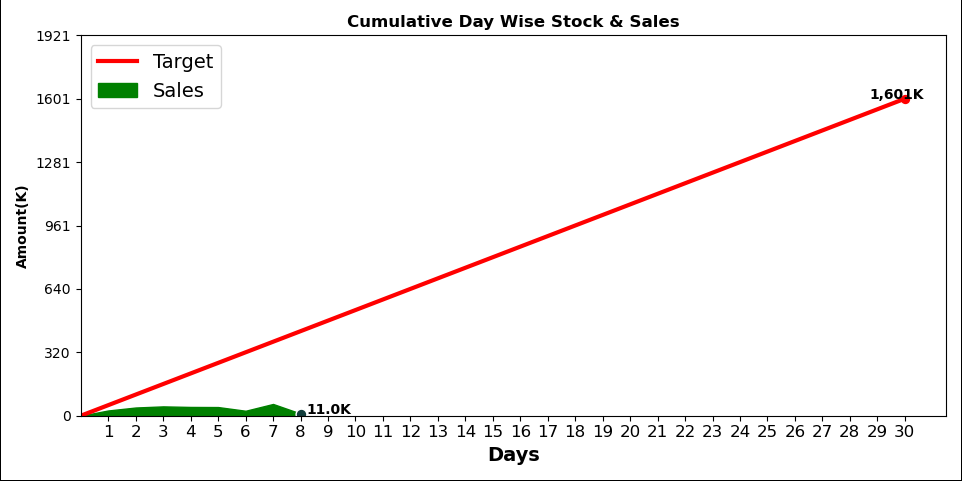
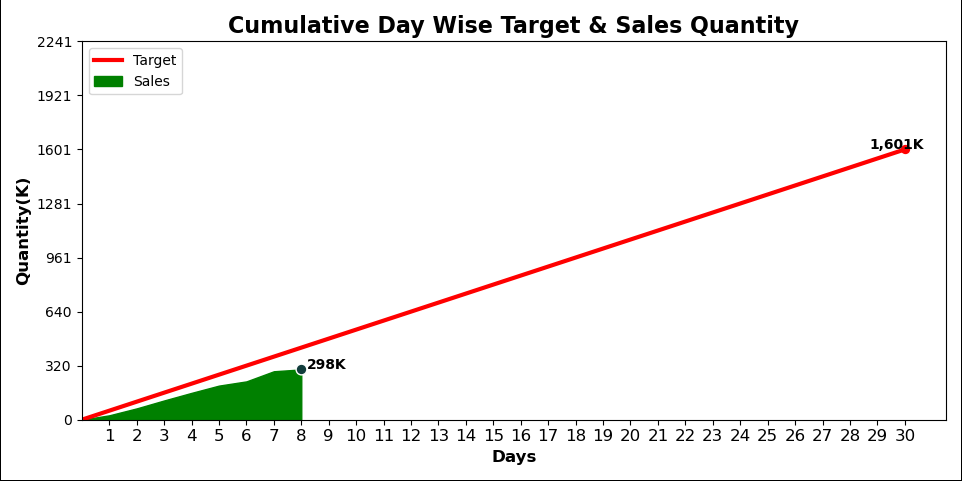
update all design

diff --git a/Functions/executive_wise_sales_target.py b/Functions/executive_wise_sales_target.py
@@ -13,20 +13,21 @@ connection = db.connect('DRIVER={SQL Server};'
 def executive_sales_target(name):
     try:
         executive_target_df = pd.read_sql_query("""
-                                            Declare @CurrentMonth NVARCHAR(MAX);
-                                            Declare @DaysInMonth NVARCHAR(MAX);
-                                            Declare @DaysInMonthtilltoday NVARCHAR(MAX);
-                                            SET @CurrentMonth = convert(varchar(6), GETDATE(),112)
-                                            SET @DaysInMonth = DAY(EOMONTH(GETDATE()))
-                                            SET @DaysInMonthtilltoday = right(convert(varchar(8), GETDATE(),112),2)
-                                            select CP01 as ExecutiveName, isnull((sum(QTY)/@DaysInMonth)*@DaysInMonthtilltoday,0) as MTDTargetQty
-                                            from PRINFOSKF 
-                                            left join ARCSECONDARY.dbo.RfieldForceProductTRG
-                                            on RfieldForceProductTRG.ITEMNO = PRINFOSKF.ITEMNO
-                                            where YEARMONTH = CONVERT(varchar(6), dateAdd(month,0,getdate()), 
-                                            112) and GPMNAME like ?
-                                            group by CP01
-                                            order by CP01 asc """, connection,params={name})
+                            Declare @CurrentMonth NVARCHAR(MAX);
+                            Declare @DaysInMonth NVARCHAR(MAX);
+                            Declare @DaysInMonthtilltoday NVARCHAR(MAX);
+                            SET @CurrentMonth = convert(varchar(6), GETDATE(),112)
+                            SET @DaysInMonth = DAY(EOMONTH(GETDATE()))
+                            SET @DaysInMonthtilltoday = right(convert(varchar(8), GETDATE(),112),2)
+                            select CP01 as ExecutiveName, cast(isnull((sum(QTY)/@DaysInMonth)*@DaysInMonthtilltoday,
+                            0)/1000 as int) as MTDTargetQty
+                            from PRINFOSKF 
+                            left join ARCSECONDARY.dbo.RfieldForceProductTRG
+                            on RfieldForceProductTRG.ITEMNO = PRINFOSKF.ITEMNO
+                            where YEARMONTH = CONVERT(varchar(6), dateAdd(month,0,getdate()), 
+                            112) and GPMNAME like ?
+                            group by CP01
+                            order by CP01 asc """, connection,params={name})
 
         Executive_name = executive_target_df['ExecutiveName'].tolist()
         Executive_target = executive_target_df['MTDTargetQty'].tolist()
@@ -50,14 +51,14 @@ def executive_sales_target(name):
         new_name3 = MS_Replace(new_name2)
         # print(new_name3)
 
-        executive_sales_df = pd.read_sql_query("""select CP01 as ExecutiveName, isnull(sum(QTYSHIPPED),0) as ItemSales from OESalesDetails
+        executive_sales_df = pd.read_sql_query("""select CP01 as ExecutiveName, cast(isnull(sum(QTYSHIPPED),0)/1000 as int) as ItemSales from OESalesDetails
                                 left join PRINFOSKF
                                 on OESalesDetails.ITEM = PRINFOSKF.ITEMNO
                                 where left(TRANSDATE,10) between convert(varchar(10),DATEADD(mm, DATEDIFF(mm, 0, GETDATE()-1), 0),112)
                                                 and convert(varchar(10),getdate(), 112)
                                 and PRINFOSKF.GPMNAME like ?
                                 group by CP01
-                                order by CP01 asc""", connection,params={name})
+                                order by CP01 asc """, connection,params={name})
 
         Executive_sale = executive_sales_df['ItemSales'].tolist()
         # print(Executive_sale)
@@ -67,23 +68,23 @@ def executive_sales_target(name):
         colors = ['#3F93D0']
         bars = plt.bar(new_name3, Executive_sale, color=colors, width=.4)
 
-        plt.title("Executive Wise MTD Target & Sales", fontsize=12, color='black', fontweight='bold')
-        plt.xlabel('Executive', fontsize=10, color='black', fontweight='bold')
+        plt.title("Executive Wise MTD Target & Sales Quantity", fontsize=16, color='black', fontweight='bold')
+        plt.xlabel('Executive', fontsize=12, color='black', fontweight='bold')
         plt.xticks(new_name3, rotation=90)
-        plt.ylabel('Sales', fontsize=10, color='black', fontweight='bold')
+        plt.ylabel('Quantity(K)', fontsize=12, color='black', fontweight='bold')
 
         plt.rcParams['text.color'] = 'black'
 
         for bar, achv in zip(bars, Executive_sale):
             yval = bar.get_height()
             wval = bar.get_width()
-            data = format(int(yval), ',') #+ '\n' + str(achv) + '%'
-            plt.text(bar.get_x(), yval, data)
+            data = format(int(yval), ',') + 'K' #+ '\n' + str(achv) + '%'
+            plt.text(bar.get_x() + wval/3, yval, data)
 
         lines = plt.plot(new_name3, Executive_target, 'o-', color='Red')
         plt.yticks(np.arange(0, max(Executive_target) + 0.9 * max(Executive_target), max(Executive_target) / 5))
         for i, j in zip(new_name3, Executive_target):
-            label = format(int(j), ',')
+            label = format(int(j), ',') + 'K'
             plt.annotate(label, (i, j), textcoords="offset points", xytext=(0, 4), ha='center', rotation=45)
 
         # print(mtd_achivemet)

diff --git a/send_mail.py b/send_mail.py
@@ -14,8 +14,8 @@ import numpy as np
 import path as d
 import xlsxwriter
 
-def send_mail(gpm_name):
 
+def send_mail(gpm_name):
     import Functions.banner_code as ban
     import Functions.generate_data as gdata
     import Functions.dashboard as dash
@@ -23,36 +23,34 @@ def send_mail(gpm_name):
     import Functions.executive_wise_sales_target as ex
     import Functions.brand_wise_target_sales as b
 
-    # ban.banner()
-    # gdata.GenerateReport(gpm_name)
-    # dash.dash_kpi_generator(gpm_name)
-    # cm.cumulative_target_sales(gpm_name)
-    # ex.executive_sales_target(gpm_name)
-    # b.brand_wise_target_sales()
+    ban.banner()
+    gdata.GenerateReport(gpm_name)
+    dash.dash_kpi_generator(gpm_name)
+    cm.cumulative_target_sales(gpm_name)
+    ex.executive_sales_target(gpm_name)
+    b.brand_wise_target_sales()
 
     # # # --------- Add Image Border ---------------------------------------
     from PIL import Image
-    # da = Image.open("./Images/dashboard.png")
-    # imageSize = Image.new('RGB', (962, 297))
-    # imageSize.paste(da, (1, 0))
-    # imageSize.save("./Images/dashboard.png")
-    #
-    # kpi1 = Image.open("./Images/Cumulative_Day_Wise_Target_vs_Sales.png")
-    # imageSize = Image.new('RGB', (962, 481))
-    # imageSize.paste(kpi1, (1, 0))
-    # imageSize.save("./Images/Cumulative_Day_Wise_Target_vs_Sales.png")
-    #
-    # kpi2 = Image.open("./Images/executive_wise_target_vs_sold_quantity.png")
-    # imageSize = Image.new('RGB', (962, 481))
-    # imageSize.paste(kpi2, (1, 0))
-    # imageSize.save("./Images/executive_wise_target_vs_sold_quantity.png")
-    # #
-    # kpi3 = Image.open("./Images/brand_wise_target_vs_sold_quantity.png")
-    # imageSize = Image.new('RGB', (962, 481))
-    # imageSize.paste(kpi3, (1, 0))
-    # imageSize.save("./Images/brand_wise_target_vs_sold_quantity.png")
+    da = Image.open("./Images/dashboard.png")
+    imageSize = Image.new('RGB', (962, 297))
+    imageSize.paste(da, (1, 0))
+    imageSize.save("./Images/dashboard.png")
 
+    kpi1 = Image.open("./Images/Cumulative_Day_Wise_Target_vs_Sales.png")
+    imageSize = Image.new('RGB', (962, 481))
+    imageSize.paste(kpi1, (1, 0))
+    imageSize.save("./Images/Cumulative_Day_Wise_Target_vs_Sales.png")
 
+    kpi2 = Image.open("./Images/executive_wise_target_vs_sold_quantity.png")
+    imageSize = Image.new('RGB', (962, 481))
+    imageSize.paste(kpi2, (1, 0))
+    imageSize.save("./Images/executive_wise_target_vs_sold_quantity.png")
+    #
+    kpi3 = Image.open("./Images/brand_wise_target_vs_sold_quantity.png")
+    imageSize = Image.new('RGB', (962, 481))
+    imageSize.paste(kpi3, (1, 0))
+    imageSize.save("./Images/brand_wise_target_vs_sold_quantity.png")
 
     # # ------------- HTML generating section ------------------------------
     # data = pd.read_excel('./Data/html_data_Sales_and_Stock.xlsx')
@@ -71,8 +69,8 @@ def send_mail(gpm_name):
     #     bcc = ['', '']
     #     print('Report Sending to = ', to)
 
-    to = ['rejaul.islam@transcombd.com', '']
-    cc = ['badhonngc@yahoo.com', '']
+    to = ['yakub@transcombd.com', 'aftab.uddin@transcombd.com']
+    cc = ['rejaul.islam@transcombd.com', '']
     bcc = ['', '']
 
     msgRoot = MIMEMultipart('related')

diff --git a/Functions/cumulative_target_sales.py b/Functions/cumulative_target_sales.py
@@ -92,19 +92,27 @@ def cumulative_target_sales(name):
             final_target_day_wise = 0
         # print('cumulative target from 0 to final day of the month : ', cumulative_target_that_needs_to_plot)
 
+        # new_array_of_cumulative_sales = [0]
+        # final = 0
+        # for val in final_sales_array:
+        #     # print(val)
+        #     get_in = final_sales_array.index(val)
+        #     # print(get_in)
+        #     if get_in == 0:
+        #         new_array_of_cumulative_sales.append(val / 1000)
+        #     else:
+        #         for i in range(0, get_in + 1):
+        #             final = (final + final_sales_array[i]) / 1000
+        #         new_array_of_cumulative_sales.append(final)
+        #         final = 0
+
+        series = pd.Series(final_sales_array)
+        cumsum = series.cumsum()
+        final_cumulative = cumsum.tolist()
         new_array_of_cumulative_sales = [0]
-        final = 0
-        for val in final_sales_array:
-            # print(val)
-            get_in = final_sales_array.index(val)
-            # print(get_in)
-            if get_in == 0:
-                new_array_of_cumulative_sales.append(val / 1000)
-            else:
-                for i in range(0, get_in + 1):
-                    final = (final + final_sales_array[i]) / 1000
-                new_array_of_cumulative_sales.append(final)
-                final = 0
+
+        for cum_value in final_cumulative:
+            new_array_of_cumulative_sales.append(int(cum_value / 1000))
 
         # print('Cumulative sales list from 0 to current day of month : ', new_array_of_cumulative_sales)  #
         # --------------------------sales data
@@ -142,11 +150,11 @@ def cumulative_target_sales(name):
         ax.set_ylim(ymin=0)
         ax.set_xlim(xmin=0)
         plt.xticks(np.arange(1, total_days + 1, 1), np.arange(1, total_days + 1, 1), fontsize=12)
-        plt.xlabel('Days', color='black', fontsize=14, fontweight='bold')
-        plt.ylabel('Amount(K)', color='black', fontsize=10, fontweight='bold')
-        plt.title('Cumulative Day Wise Stock & Sales', color='black', fontweight='bold', fontsize=12)
+        plt.xlabel('Days', color='black', fontsize=12, fontweight='bold')
+        plt.ylabel('Quantity(K)', color='black', fontsize=12, fontweight='bold')
+        plt.title('Cumulative Day Wise Target & Sales Quantity', color='black', fontweight='bold', fontsize=16)
 
-        plt.legend(['Target', 'Sales'], loc='upper left', fontsize='14')
+        plt.legend(['Target', 'Sales'], loc='upper left')
         plt.yticks(
             np.arange(0, max(cumulative_target_that_needs_to_plot) + 0.4 * max(cumulative_target_that_needs_to_plot),
                       max(cumulative_target_that_needs_to_plot) / 5))

diff --git a/Functions/brand_wise_target_sales.py b/Functions/brand_wise_target_sales.py
@@ -10,28 +10,28 @@ def brand_wise_target_sales():
         read_file_for_all_data = read_file_for_all_data.sort_values('Actual Sales MTD', ascending=False)
         brand = read_file_for_all_data['BRAND'].to_list()
         mtd_sales = read_file_for_all_data['Actual Sales MTD'].to_list()
-        mtd_sales=mtd_sales[:10]
+        # mtd_sales=mtd_sales[:10]
         new_list = range(len(mtd_sales))
         mtd_target = read_file_for_all_data['MTD Sales Target'].to_list()
-        mtd_target = mtd_target[:10]
+        # mtd_target = mtd_target[:10]
         mtd_achivemet = read_file_for_all_data['MTD Sales Acv'].to_list()
-        mtd_achivemet = mtd_achivemet[:10]
+        # mtd_achivemet = mtd_achivemet[:10]
 
         plt.subplots(figsize=(9.6, 4.8))
         colors = ['#3F93D0']
         bars = plt.bar(new_list, mtd_sales, color=colors, width=.75)
 
         plt.title("Brand wise Target VS Sold Quantity", fontsize=16, color='black', fontweight='bold')
-        plt.xlabel('Brand', fontsize=14, color='black', fontweight='bold')
+        plt.xlabel('Brand', fontsize=12, color='black', fontweight='bold')
         plt.xticks(new_list, brand, rotation=90)
-        plt.ylabel('Sales', fontsize=14, color='black', fontweight='bold')
+        plt.ylabel('Quantity(K)', fontsize=12, color='black', fontweight='bold')
 
         # plt.rcParams['text.color'] = 'black'
         #
         for bar, achv in zip(bars, mtd_achivemet):
             yval = bar.get_height()
             wval = bar.get_width()
-            data = format(int(yval / 1000), ',')  # + '\n' + str(achv) + '%'
+            data = format(int(yval / 1000), ',')   + '\n' + str(achv) + '%'
             plt.text(bar.get_x() + .4 - wval / 2, yval * .5, data)  # - wval / 2
 
         lines = plt.plot(new_list, mtd_target, 'o-', color='Red')
@@ -41,7 +41,7 @@ def brand_wise_target_sales():
             label = format(int(j / 1000), ',')
             plt.annotate(str(label) + 'K', (i, j), textcoords="offset points", xytext=(0, 15), ha='center')
 
-        plt.legend(['Target', 'Sales'], loc='best', fontsize='14')
+        plt.legend(['Target', 'Sales & Achiv%'], loc='best', fontsize='14')
         plt.tight_layout()
         plt.savefig('./Images/brand_wise_target_vs_sold_quantity.png')
         print('Brand Figure generated')

diff --git a/Functions/dashboard.py b/Functions/dashboard.py
@@ -62,13 +62,13 @@ def dash_kpi_generator(name):
 
     trend_achivement = (sum(total_sales) / trend) * 100
 
-    def currency_converter(num):
-        num_size = len(str(num))
-        if num_size >= 4:
-            number = str(int(num / 1000)) + 'K'
-        else:
-            number = num
-        return number
+    # def currency_converter(num):
+    #     num_size = len(str(num))
+    #     if num_size >= 4:
+    #         number = str(int(num / 1000)) + 'K'
+    #     else:
+    #         number = num
+    #     return number
 
     image = Image.open(dir.get_directory() + "/images/dash_kpi.png")
     draw = ImageDraw.Draw(image)
@@ -79,10 +79,10 @@ def dash_kpi_generator(name):
     draw.text((650, 80), str(no_sales_sku), font=font, fill=(39, 98, 236))
     draw.text((840, 80), str(no_stock_sku_list[0]), font=font, fill=(39, 98, 236))
 
-    draw.text((70, 220), str(currency_converter(sum(total_target))), font=font, fill=(255, 255, 255))
-    draw.text((260, 220), str(currency_converter(sum(total_sales))), font=font, fill=(255, 255, 255))
+    draw.text((70, 220), str(int(sum(total_target) / 1000)) + 'K', font=font, fill=(255, 255, 255))
+    draw.text((260, 220), str(int(sum(total_sales) / 1000)) + 'K', font=font, fill=(255, 255, 255))
     draw.text((435, 220), str(round(achivemet, 1)) + '%', font=font, fill=(255, 255, 255))
-    draw.text((625, 220), str(currency_converter(round(trend, 1))), font=font, fill=(255, 255, 255))
+    draw.text((625, 220), str(int(trend / 1000)) + 'K', font=font, fill=(255, 255, 255))
     draw.text((830, 220), str(round(trend_achivement, 1)) + '%', font=font, fill=(255, 255, 255))
     # image.show()
     image.save('./Images/dashboard.png')

diff --git a/Functions/design_report_layout.py b/Functions/design_report_layout.py
@@ -263,7 +263,7 @@ def generate_layout(gpm_name):
 
                 <table border="1px solid black" width="90%"> 
                     <tr> 
-                        <th colspan='7' style=" background-color: #f4d3b5; "> No Sales Item: Last 3 Months </th> 
+                        <th colspan='7' style=" background-color: #f4d3b5; font-size: 20px;"> No Stock Item: Last 3 Months </th> 
                     </tr>
 
                     <tr>
@@ -348,7 +348,6 @@ def generate_layout(gpm_name):
                     </tr>
                     """  + item_day.item_stock_days() + """
                 
-               
                 
             </table>  <br>
 

diff --git a/test.py b/test.py
@@ -1,2 +1,2 @@
-import Functions.item_wise_yesterday_sales as y
-y.item_wise_yesterday_sales_Records()
+import Functions.dashboard as dash
+dash.dash_kpi_generator('Mr. A. K. M. Nawajesh Hossain')
